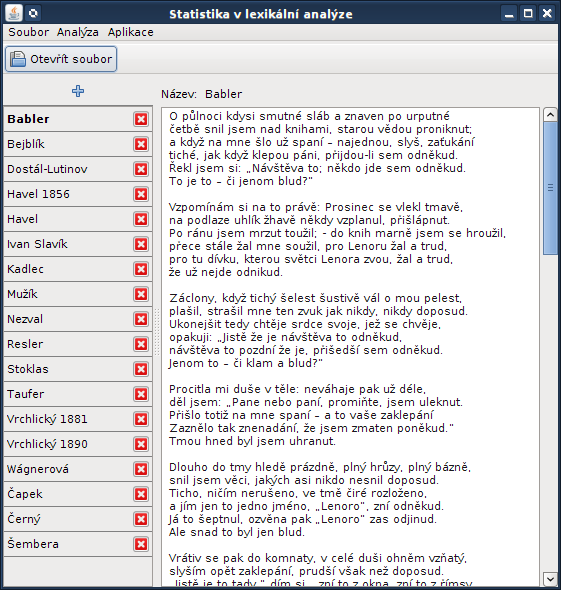
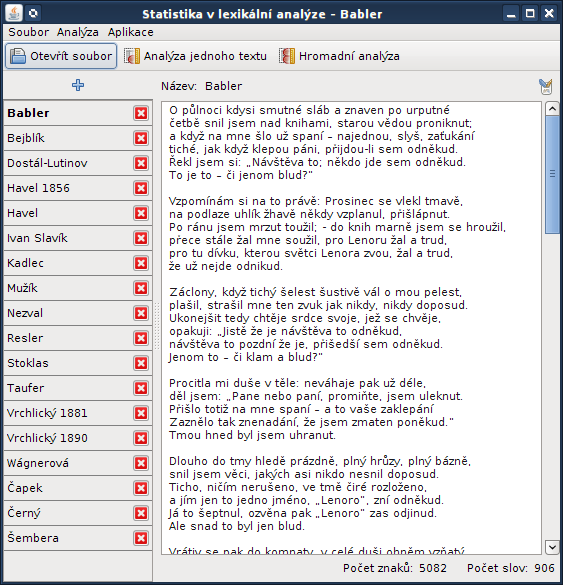
Kapitola aplikace, korektury z 2014-12-31, bibliografie

Changed region(s): [[0.0, 0.0, 1.0, 1.0], [0.9697, 0.4, 1.0, 0.4308]]

diff --git a/50-denotacni-analyza.tex b/50-denotacni-analyza.tex
@@ -2,13 +2,13 @@
 \begin{document}
 \chapter{Denotační analýza}
 
-Denotační analýza patří mezi analýzy referenčního typu, neboť jejím smyslem je rozložení textu na jednotky (slova, fráze\ldots) a rozdělení těchto jednotek do skupin zvaných \textbf{hřeby}. Každý hřeb spolu sdružuje jednotky, které mezi sebou z hlediska významu souvisí. Hřeb tedy sdružuje všechny jednotky vztahující se k jednomu a tomu samému subjektu. Například při analýze jakéhokoliv překladu básně Havran by byl při denotační analýze nalezen hřeb, který by sdružoval jednotky související s havranem.
+Denotační analýza patří mezi analýzy referenčního typu, neboť jejím smyslem je rozložení textu na jednotky (slova, fráze, \ldots) a rozdělení těchto jednotek do skupin zvaných \textbf{hřeby}. Každý hřeb spolu sdružuje jednotky, které mezi sebou z hlediska významu souvisí. Hřeb tedy sdružuje všechny jednotky vztahující se k jednomu a tomu samému subjektu. Například při analýze jakéhokoliv překladu básně Havran bude při denotační analýze nalezen hřeb, který bude sdružovat jednotky související s havranem.
 
 \section{Dělení textu do hřebů}
 
-Aby bylo možné text podrobit denotační analýze, je potřeba jej nejprve rozdělit do hřebů. Slova je třeba rozdělovat na základě kritérií, dle kterých bude dané slovo zařazeno do příslušného hřebu. Tato kritéria nejsou doposud pevně určena. Vytvoření kritérií tak, aby pokryla všechny případy, které mohou nastat, je velmi komplexní úkol. Je však vhodné vytvořit si vlastní soubor těchto kritérií tak, aby pokrýval případy, které se vyskytují ve zkoumaných textech. Tím bude zachována stejná metodika pro všechny texty a následné porovnávání výsledků tak nebude zkresleno rozdílnými pravidly, jež byly při rozdělování použity.
+Při denotační analýze nejprve text rozdělíme do hřebů. Na základě zvolených kritérií je třeba slova zařadit do příslušných hřebů. Tato kritéria nejsou doposud pevně určena. Vytvoření kritérií tak, aby pokryla všechny případy, které mohou nastat, je velmi komplexní úkol. Je však vhodné vytvořit si vlastní soubor těchto kritérií tak, aby pokrýval případy, které se vyskytují ve zkoumaných textech. Tím bude zachována stejná metodika pro všechny texty a následné porovnávání výsledků tak nebude zkresleno rozdílnými pravidly, jež byly při rozdělování použity.
 
-Při tvorbě kritérií je možné inspirovat se pravidly, které uvádí Altman v [1]:
+Při tvorbě kritérií je možné inspirovat se pravidly, které uvádí Altman v \cite{Wimmer2003} na straně 298:
 \begin{quote}
 \begin{itemize}
 \item Podstatná jména:
@@ -95,21 +95,27 @@ Denotační analýza zkoumá text právě z tohoto hlediska -- jak spolu jednotl
 \subsection{Jádro textu}
 Jádro textu obsahuje ty hřeby, v nichž se vyskytují nejméně dva odlišné kmeny\footnote{Kmenem se v lingvistice označuje ta část slova, která se v různých tvarech téhož slova (u flektivních slovních druhů) nemění. Mnohdy bývá totožná s kořenem (morfémem nesoucím základní významovou (lexikální) část slova. \url{http://cs.wikipedia.org/wiki/Kmen_(mluvnice)} }.
 
+\subsection{Velikost hřebu}
+Velikost (též rozsah) hřebu je definována jako počet elementů v daném hřebu. Velikost hřebu %TODO sem dát hřeb
+HŘEB je $X$.
+
 \subsection{Kardinální číslo jádra}
-Kardinální číslo jádra se značí |.|. Je dáno součtem velikostí hřebů, které jsou součástí jádra textu.
+Kardinální číslo jádra se značí $|\kern 2pt.\kern 2pt|$. Je dáno součtem velikostí hřebů, které jsou součástí jádra textu.
 
 \subsection{\uv{Lokálnost} jádrových hřebů}
 \uv{Lokálnost} jádrových hřebů (značena $T$) zobrazuje dominantnost určitých hřebů v textu.  Jedná se o poměr velikosti hřebu ke kardiálnímu číslo jádra:
 \begin{equation}
-T_\text{(hřeb)}=\frac{\text{velikost hřebu}}{|.|}.
+T_\text{(hřeb)}=\frac{\text{velikost hřebu}}{|\kern 5pt.\kern 5pt|}.
 \end{equation}
+Viz \cite[str. 302]{Wimmer2003}. 
 
 \subsection{Deterministické jádro}
+%TODO sem dát hřeb "zaklepání"
 Deterministické jádro souvisí s problematikou  \glslink{tema_rema}{témy a rémy}. Do deterministického jádra patří všechny hřeby, které na sebe odkazují. Například vidíme, že se ve hřebu \uv{zaklepání} nachází slovo \uv{(ozva)lo}. V deterministickém jádru proto bude obsažen jak hřeb \uv{zaklepání}, tak hřeb \uv{ozvat}.
 
 
 \subsection{Kompaktnost textu}
-Kompaktnost textu určuje, jak moc je text zaměřen na jeden (hlavní) motiv. To přímo úměrně souvisí s počtem hřebů, které se v textu vyskytují. Kompaktnost textu $K$ je číslo ležící v intervalu $<0,1>$. Čím je vyšší, tím je text kompaktnější. Naopak čím nižší je hodnota $K$, tím více je text rozvětven. Hodnota $K$ se spočítá jako
+Kompaktnost textu určuje, jak moc je text zaměřen na jeden (hlavní) motiv. To přímo úměrně souvisí s počtem hřebů, které se v textu vyskytují. Kompaktnost textu $K$ je číslo ležící v intervalu $\langle0, 1\rangle$. Čím je vyšší, tím je text kompaktnější. Naopak čím nižší je hodnota $K$, tím více je text rozvětven. Vzorec pro výpočet hodnoty $K$ je v \cite[str. 303]{Wimmer2003} definován jako
 \begin{equation}
 K=\frac{1-\frac{N}{L}}{1-\frac{1}{L}},
 \end{equation}
@@ -120,7 +126,7 @@ kde
 \end{align*}     
 
 \subsection{Centralizovanost textu}
-Centralizovanost textu ($R$) vyjadřuje sílu, jakou se denotace koncentruje na centrální hřeby. Je závislá na počtu výskytů jednotlivých hřebů. Spočítá se jako
+Centralizovanost textu ($R$) vyjadřuje sílu, jakou se denotace koncentruje na centrální hřeby. Je závislá na počtu výskytů jednotlivých hřebů. Spočítá se (viz \cite[str. 303]{Wimmer2003}) jako
 \begin{equation}
 R=\frac{1}{n^2}\sum{ \abs{H_i}^2 \times f_i},
 \end{equation}
@@ -128,10 +134,10 @@ kde
 \begin{align*}
       \abs{H_i} & \text{ je velikost hřebu,}\\
       f_i & \text{ je počet hřebů s velikostí \abs{H_i},}\\
-      n&=\abs{H_i}\times f_i
+      n&=\abs{H_i}\times f_i.
 \end{align*}     
 
-Pomocí MacIntoshova indexu je možné spočítat relativní centralizovanost textu. MacIntoshův index se vypočítá jako
+Pomocí MacIntoshova indexu je možné spočítat relativní centralizovanost textu. Vzorec výpočtu MacIntoshova indexu je definován v \cite[str. 304]{Wimmer2003} jako
 \begin{equation}
 R_{rel}=\frac{1-\sqrt{R}}{1-\frac{1}{\sqrt{n}}}.
 \end{equation}
@@ -141,14 +147,14 @@ Jedná se o relativní rozdíl mezi prvním a posledním výskytem slova z jedno
 
 Vztah pro výpočet difuze hřebu ($D_{\text{hřeb}}$) je dána jako:
 \begin{equation}
-D_\text{hřeb}=\frac{\max{<\text{hřeb}>}-\min{<\text{hřeb}>}}{\text{velikost hřebu}}.
+D_\text{hřeb}=\frac{\max{\langle\text{hřeb}\rangle}-\min{\langle\text{hřeb}\rangle}}{\text{velikost hřebu}},
 \end{equation}
-
+viz \cite[str. 304]{Wimmer2003}.
 \subsection{Rozšířené jádro textu}
 Rozšířené jádro je charakteristické pro difuzi textu. Patří do něj všechny hřeby, jejichž difuze je menší nebo rovna nejvyšší difuzi jádrového hřebu, přičemž jsou vynechány všechny předložky, spojky, zájmena a citoslovce.
 
 \subsection{Koincidence}
-Koincidence je definována jako výskyt dvou hřebů v jedné vymezené části textu (verš, věta, sloka\ldots). Koincidence je považována za:
+Koincidence je definována jako výskyt dvou hřebů v jedné vymezené části textu (verš, věta, sloka, \ldots). Koincidence je považována za:
 \begin{description}
 \item[náhodnou,] pokud pravděpodobnost výskytu daných dvou hřebu je dostatečně vysoka,
 \item[signifikantní,] v případě, že pravděpodobnost tohoto výskytu je malá.
@@ -162,10 +168,10 @@ P(X \geq x)=\sum_{i=x}^{min{\left(  M, n \right) }} \frac{\binom{M}{i}\binom{N-M
 \end{equation}
 kde 
 \begin{align*}
-	N & \text{ je počet vymezených částí textu (počet veršů, vět, slok,\ldots),}\\
+	N & \text{ je počet vymezených částí textu (počet veršů, vět, slok, \ldots),}\\
 	M & \text{ je počet vymezených částí, v nichž se vyskytuje hřeb $A$,}\\
 	n & \text{ je počet vymezených částí, v nichž se vyskytuje hřeb $B$,}\\
-	x & \text{ je počet vymezených částí, v nichž se vyskytuje jak hřeb  $A$, tak hřeb $B$}
+	x & \text{ je počet vymezených částí, v nichž se vyskytuje jak hřeb  $A$, tak hřeb $B$,}
 \end{align*}  
 
 vypočítá kumulativní pravděpodobnost hypergeometrického rozdělení. Koincidence je \textit{signifikantní}, pokud platí $P(X \geq x)\leq \alpha$. Čím je zvolená hladina $\alpha$ menší číslo, tím méně hřebů je vzájemně \textit{signifikantních}.
@@ -178,6 +184,6 @@ Charakteristikami, které jsou spojeny s koincidencí, jsou:
 \begin{description}
 	\item[Index nespojitosti] představuje nejsilnější vztah v textu. Je-li hladina $\alpha$ stanovena na hodnotu nižší, než je \textit{index nespojitosti}, bude $\alpha$-graf tvořen pouze izolovanými vrcholy.
 	\item[Index neizolovanosti] je pravděpodobnost zaručující, že žádný z vrcholů v $\alpha$-grafu nebude izolovaný. Pokud je hladina $\alpha$ stanovena nad \textit{index neizolovanosti}, každý vrchol $\alpha$-grafu bude incidentní s alespoň jednou hranou.
-	\item[Index dosáhnutelnosti] je taková hodnota $\alpha$, při které je celý $\alpha$-graf tvořen pouze jednou komponentou. To znamená, že $\alpha$-graf je souvislý a tudíž existuje cesta mezi jeho libovolnými dvěma vrcholy.
+	\item[Index dosažitelnosti] je taková hodnota $\alpha$, při které je celý $\alpha$-graf tvořen pouze jednou komponentou. To znamená, že $\alpha$-graf je souvislý a tudíž existuje cesta mezi jeho libovolnými dvěma vrcholy.
 \end{description}
 \end{document}

diff --git a/60-aplikace.tex b/60-aplikace.tex
@@ -42,7 +42,7 @@ Postupně jsem však od této idei upustil a to z následujících důvodů:
 
 Po zavrhnutí výše popsaného návrhu jsem se rozhodl oba moduly naprogramovat v jednom jazyce. To znamenalo zvolit takový jazyk, který umožní napsat jak dostatečně rychlou a otestovatelnou knihovnu, tak vytvořit grafické uživatelské rozhraní. Ve výběru zůstaly dříve zmíněné jazyky Python a Ruby a přibyly do něj jazyky C\# (Mono) a Java.
 
-Vzhledem ke svým zkušenostem s jednotlivými jazyky rozhodl jsem se nakonec pro implementaci v jazyce Java, který splnil veškeré požadavky. 
+Vzhledem ke svým zkušenostem s jednotlivými jazyky jsem se nakonec rozhodl pro implementaci v jazyce Java, který splnil veškeré požadavky. 
 
 \section{Knihovna \texttt{compLing}}
 
@@ -74,12 +74,28 @@ Modul grafického uživatelského rozhraní vznikl jako nutná nadstavba nad kni
 
 Cílem bylo vytvořit co možná nejjednodušší rozhraní, které uživateli umožní otevřít libovolný počet textů a následně nad těmito texty provádět analýzy podporované knihovnou \texttt{compLing}. Uživatelské rozhraní programu s 18 otevřenými překlady básně Havran je zobrazeno na následujícím obrázku:
 
-\begin{figure}[h!]
+\begin{figure}[H]
 	\centering
 	\includegraphics[max width=\textwidth,keepaspectratio=true]{imgs-60-aplikace/gui-main-window}
 	\caption{Hlavní okno programu s otevřenými překlady básně Havran.}
 \end{figure}
 
+Hlavní okno je rozděleno do čtyř částí:
+
+\begin{enumerate}
+	\item menu,
+	\item panel nástrojů
+	\item panely otevřených textů,
+	\item aktuální text.
+\end{enumerate}
+
+Menu aplikace obsahuje tři položky -- Soubor, Analýza a Aplikace. V menu Soubor se nacházejí položky pro otevření souboru a ukončení aplikace. Menu Analýza zpřístupňuje jednotlivé type analýz (kvantitativní, fonické, denotační). V případě, že není otevřen žádný text, je tato položka neaktivní. V menu Aplikace se skrývají dvě položky -- Nastavení a O aplikaci. Položka Nastavení vyvolá dialog, který umožňuje upravit velikost písma v aplikaci.
+
+Panel nástrojů poskytuje rychlý přístup k nejčastěji využívaným funkcím. Těmi jsou otevírání textů, analýza aktuálního textu a analýza všech otevřených textů. Po kliknutí na tlačítko \enquote{Analýza jednoho textu} nebo \enquote{Hromadná analýza} je zobrazeno menu pro výběr konkrétního typu analýzy. Obě tato tlačítka jsou neaktivní, není-li otevřen žádný text.
+
+Pod panelem nástrojů vlevo jsou ve sloupci umístěny panely pro otevřené texty. Na vrcholu panelů se nachází tlačítko pro vytvoření nového prázdného panelu. Po kliknutí pravým tlačítkem myši na panel se zobrazí kontextové menu, přes které je možné panel přejmenovat nebo uzavřít.
+
+Nalevo od těchto panelů je zobrazen právě aktivní text. Nad i pod textem jsou umístěny dva informační panely. Vrchní zobrazuje jméno aktivního textu. Kliknutím na tlačítko vpravo (ikonka tužky) je možné text přejmenovat. Na panelu umístěném pod textem je zobrazena informace o délce aktuálního textu, a to jak v počtu znaků, tak v počtu slov.
 
 
 

diff --git a/dp.tex b/dp.tex
@@ -1,9 +1,9 @@
 \documentclass[11pt,a4paper,fleqn,titlepage,twoside,openany]{book}
 \usepackage{style}
-\clubpenalty 10000
-\widowpenalty 10000
-\makeglossaries
+
 \subfile{05-slovnik-pojmu}
+
+\bibliography{bibliography}
 
 \begin{document}
 \makeatletter
@@ -83,9 +83,9 @@ Morbi, fringilla, risus, dapibus, viverra, ultricies, dolor
 \chapter*{Seznam pojmů a zkratek}
 \addcontentsline{toc}{chapter}{Seznam pojmů a zkratek}  
 
-\printglossary[title=Slovník pojmů]
+\printglossary[title=Slovník pojmů, nonumberlist]
 
-\printglossary[type=acronym, title=Slovník zkratek]
+\printglossary[type=acronym, title=Slovník zkratek, nonumberlist]   
 
 \listoffigures
 \addcontentsline{toc}{chapter}{\listfigurename} 
@@ -102,4 +102,5 @@ První kapitola. Obsahuje úvod.
 
 Závěr spolu s úvodem jsou nejvíce exponované kapitoly, které se píší až na závěr práce. Úvodní kapitola uvádí čtenáře do problematiky práce. V závěru naopak autor zhodnotí výsledky práce, míru splnění zadání, případně výhled do budoucna. Úvod i závěr by měl mít rozsah min. jedné strany.
 
+\printbibliography[title={Seznam použité literatury},heading=bibintoc]
 \end{document}
